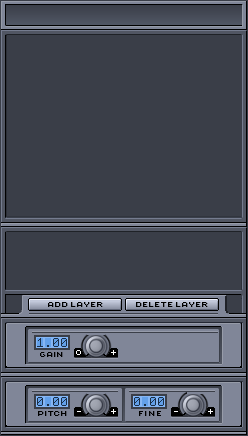
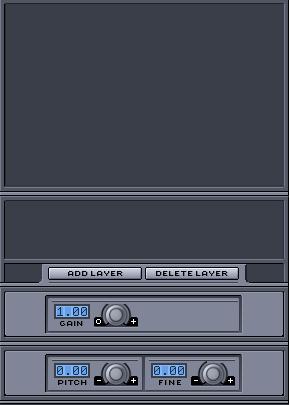
fit the instrumenteditor and layer tab to the same size than sound library.
git-svn-id: http://svn.assembla.com/svn/hydrogen/trunk@574 3b3fb362-3133-0410-aa15-cf69e0a59cb7

diff --git a/gui/src/InstrumentEditor/InstrumentEditor.cpp b/gui/src/InstrumentEditor/InstrumentEditor.cpp
@@ -54,48 +54,48 @@ InstrumentEditor::InstrumentEditor( QWidget* pParent )
  , m_pInstrument( NULL )
  , m_nSelectedLayer( 0 )
 {
-	setFixedWidth( 248 );
+	setFixedWidth( 290 );
 
+// Instrument properties top
+	m_pInstrumentPropTop = new PixmapWidget( this );
+	m_pInstrumentPropTop->setPixmap( "/instrumentEditor/instrumentTab_top.png" );
 
 	m_pShowInstrumentBtn = new ToggleButton(
-			this,
+			m_pInstrumentPropTop,
 			"/skin_btn_on.png",
 			"/skin_btn_off.png",
 			"/skin_btn_over.png",
-			QSize( 96, 17 ),
+			QSize( 100, 17 ),
 			true
 	);
 	m_pShowInstrumentBtn->setText(trUtf8("General"));
 	m_pShowInstrumentBtn->setToolTip( trUtf8( "Show instrument properties" ) );
 	connect( m_pShowInstrumentBtn, SIGNAL( clicked(Button*) ), this, SLOT( buttonClicked(Button*) ) );
-	m_pShowInstrumentBtn->move( 23, 0 );
+	m_pShowInstrumentBtn->move( 40, 7 );
 	m_pShowInstrumentBtn->setPressed( true );
 
 
 	m_pShowLayersBtn = new ToggleButton(
-			this,
+			m_pInstrumentPropTop,
 			"/skin_btn_on.png",
 			"/skin_btn_off.png",
 			"/skin_btn_over.png",
-			QSize( 96, 17 ),
+			QSize( 100, 17 ),
 			true
 	);
 	m_pShowLayersBtn->setText( trUtf8("Layers") );
 	m_pShowLayersBtn->setToolTip( trUtf8( "Show layers properties" ) );
 	connect( m_pShowLayersBtn, SIGNAL( clicked(Button*) ), this, SLOT( buttonClicked(Button*) ) );
-	m_pShowLayersBtn->move( 119, 0 );
-
-
+	m_pShowLayersBtn->move( 144, 7 );
 
 
 // Instrument properties
 	m_pInstrumentProp = new PixmapWidget( this );
-	m_pInstrumentProp->move(0, 20);
+	m_pInstrumentProp->move(0, 31);
 	m_pInstrumentProp->setPixmap( "/instrumentEditor/instrumentTab.png" );
 
-
 	m_pNameLbl = new ClickableLabel( m_pInstrumentProp );
-	m_pNameLbl->setGeometry( 8, 36, 232, 25 );
+	m_pNameLbl->setGeometry( 8, 5, 275, 28 );
 
 	QFont boldFont;
 	boldFont.setBold(true);
@@ -103,7 +103,7 @@ InstrumentEditor::InstrumentEditor( QWidget* pParent )
 	connect( m_pNameLbl, SIGNAL( labelClicked(ClickableLabel*) ), this, SLOT( labelClicked(ClickableLabel*) ) );
 
 	m_pRandomPitchRotary = new Rotary( m_pInstrumentProp, Rotary::TYPE_NORMAL, trUtf8( "Random pitch factor" ), false, true );
-	m_pRandomPitchRotary->move( 96, 223 );
+	m_pRandomPitchRotary->move( 117, 192 );
 	connect( m_pRandomPitchRotary, SIGNAL( valueChanged(Rotary*) ), this, SLOT( rotaryChanged(Rotary*) ) );
 
 	// Filter
@@ -122,9 +122,9 @@ InstrumentEditor::InstrumentEditor( QWidget* pParent )
 	m_pResonanceRotary = new Rotary( m_pInstrumentProp, Rotary::TYPE_NORMAL, trUtf8( "Filter resonance" ), false, true );
 	connect( m_pResonanceRotary, SIGNAL( valueChanged(Rotary*) ), this, SLOT( rotaryChanged(Rotary*) ) );
 
-	m_pFilterBypassBtn->move( 49, 183 );
-	m_pCutoffRotary->move( 96, 177 );
-	m_pResonanceRotary->move( 149, 177 );
+	m_pFilterBypassBtn->move( 70, 152 );
+	m_pCutoffRotary->move( 117, 146 );
+	m_pResonanceRotary->move( 170, 146 );
 	//~ Filter
 
 	// ADSR
@@ -136,22 +136,22 @@ InstrumentEditor::InstrumentEditor( QWidget* pParent )
 	connect( m_pDecayRotary, SIGNAL( valueChanged(Rotary*) ), this, SLOT( rotaryChanged(Rotary*) ) );
 	connect( m_pSustainRotary, SIGNAL( valueChanged(Rotary*) ), this, SLOT( rotaryChanged(Rotary*) ) );
 	connect( m_pReleaseRotary, SIGNAL( valueChanged(Rotary*) ), this, SLOT( rotaryChanged(Rotary*) ) );
-	m_pAttackRotary->move( 32, 83 );
-	m_pDecayRotary->move( 84, 83 );
-	m_pSustainRotary->move( 136, 83 );
-	m_pReleaseRotary->move( 188, 83 );
+	m_pAttackRotary->move( 53, 52 );
+	m_pDecayRotary->move( 105, 52 );
+	m_pSustainRotary->move( 157, 52 );
+	m_pReleaseRotary->move( 209, 52 );
 	//~ ADSR
 
 	// instrument gain
 	m_pInstrumentGainLCD = new LCDDisplay( m_pInstrumentProp, LCDDigit::SMALL_BLUE, 4 );
 	m_pInstrumentGain = new Rotary( m_pInstrumentProp, Rotary::TYPE_NORMAL, trUtf8( "Instrument gain" ), false, false );
 	connect( m_pInstrumentGain, SIGNAL( valueChanged(Rotary*) ), this, SLOT( rotaryChanged(Rotary*) ) );
-	m_pInstrumentGainLCD->move( 46, 136 );
-	m_pInstrumentGain->move( 96, 131 );
+	m_pInstrumentGainLCD->move( 67, 105 );
+	m_pInstrumentGain->move( 117, 100 );
 
 
 	m_pMuteGroupLCD = new LCDDisplay( m_pInstrumentProp, LCDDigit::SMALL_BLUE, 4 );
-	m_pMuteGroupLCD->move( 139, 136 );
+	m_pMuteGroupLCD->move( 160, 105 );
 
 	m_pAddMuteGroupBtn = new Button(
 			m_pInstrumentProp,
@@ -161,7 +161,7 @@ InstrumentEditor::InstrumentEditor( QWidget* pParent )
 			QSize( 16, 8 )
 	);
 
-	m_pAddMuteGroupBtn->move( 181, 135 );
+	m_pAddMuteGroupBtn->move( 202, 104 );
 	connect( m_pAddMuteGroupBtn, SIGNAL( clicked(Button*) ), this, SLOT( muteGroupBtnClicked(Button*) ) );
 
 
@@ -172,7 +172,7 @@ InstrumentEditor::InstrumentEditor( QWidget* pParent )
 			"/lcd/LCDSpinBox_down_over.png",
 			QSize(16,8)
 	);
-	m_pDelMuteGroupBtn->move( 181, 144 );
+	m_pDelMuteGroupBtn->move( 202, 113 );
 	connect( m_pDelMuteGroupBtn, SIGNAL( clicked(Button*) ), this, SLOT( muteGroupBtnClicked(Button*) ) );
 
 //~ Instrument properties
@@ -183,19 +183,21 @@ InstrumentEditor::InstrumentEditor( QWidget* pParent )
 
 // LAYER properties
 	m_pLayerProp = new PixmapWidget( this );
-	m_pLayerProp->move( 0, 20 );
+	m_pLayerProp->move( 0, 31 );
 	m_pLayerProp->hide();
 	m_pLayerProp->setPixmap( "/instrumentEditor/layerTab.png" );
 
+
+
 	// Layer preview
 	m_pLayerPreview = new LayerPreview( m_pLayerProp );
-	m_pLayerPreview->move( 7, 35 );
+	m_pLayerPreview->move( 6, 4 );
 
 
 	// Waveform display
 	m_pWaveDisplay = new WaveDisplay( m_pLayerProp );
 	m_pWaveDisplay->updateDisplay( NULL );
-	m_pWaveDisplay->move( 6, 232 );
+	m_pWaveDisplay->move( 5, 201 );
 
 	m_pLoadLayerBtn = new Button(
 			m_pLayerProp,
@@ -213,8 +215,8 @@ InstrumentEditor::InstrumentEditor( QWidget* pParent )
 			QSize( 94, 13 )
 	);
 
-	m_pLoadLayerBtn->move( 28, 298 );
-	m_pRemoveLayerBtn->move( 125, 298 );
+	m_pLoadLayerBtn->move( 48, 267 );
+	m_pRemoveLayerBtn->move( 145, 267 );
 
 	connect( m_pLoadLayerBtn, SIGNAL( clicked(Button*) ), this, SLOT( buttonClicked(Button*) ) );
 	connect( m_pRemoveLayerBtn, SIGNAL( clicked(Button*) ), this, SLOT( buttonClicked(Button*) ) );
@@ -237,14 +239,14 @@ InstrumentEditor::InstrumentEditor( QWidget* pParent )
 	m_pLayerPitchFineRotary->setMax( 50.0 );
 	connect( m_pLayerPitchFineRotary, SIGNAL( valueChanged(Rotary*) ), this, SLOT( rotaryChanged(Rotary*) ) );
 
-	m_pLayerGainLCD->move( 34, 332 + 3 );
-	m_pLayerGainRotary->move( 82, 332 );
+	m_pLayerGainLCD->move( 54, 301 + 3 );
+	m_pLayerGainRotary->move( 102, 301 );
 
-	m_pLayerPitchCoarseLCD->move( 34, 391 + 3 );
-	m_pLayerPitchCoarseRotary->move( 82, 391 );
+	m_pLayerPitchCoarseLCD->move( 54, 360 + 3 );
+	m_pLayerPitchCoarseRotary->move( 102, 360 );
 
-	m_pLayerPitchFineLCD->move(  131, 391 + 3 );
-	m_pLayerPitchFineRotary->move( 179, 391 );
+	m_pLayerPitchFineLCD->move(  151, 360 + 3 );
+	m_pLayerPitchFineRotary->move( 199, 360 );
 //~ Layer properties
 
 

diff --git a/gui/src/InstrumentEditor/InstrumentEditor.h b/gui/src/InstrumentEditor/InstrumentEditor.h
@@ -74,6 +74,7 @@ class InstrumentEditor : public QWidget, public Object, public EventListener
 
 		// Instrument properties
 		PixmapWidget *m_pInstrumentProp;
+		PixmapWidget *m_pInstrumentPropTop;
 		ClickableLabel *m_pNameLbl;
 
 		// ADSR

diff --git a/gui/src/InstrumentEditor/LayerPreview.cpp b/gui/src/InstrumentEditor/LayerPreview.cpp
@@ -49,7 +49,7 @@ LayerPreview::LayerPreview( QWidget* pParent )
 
 	setMouseTracking( true );
 
-	int w = 234;
+	int w = 276;
 	int h = 20 + m_nLayerHeight * MAX_LAYERS;
 	resize( w, h );
 

diff --git a/gui/src/InstrumentEditor/WaveDisplay.cpp b/gui/src/InstrumentEditor/WaveDisplay.cpp
@@ -38,7 +38,7 @@ WaveDisplay::WaveDisplay(QWidget* pParent)
 	setAttribute(Qt::WA_NoBackground);
 
 	//INFOLOG( "INIT" );
-	int w = 235;
+	int w = 277;
 	int h = 58;
 	resize( w, h );
 
